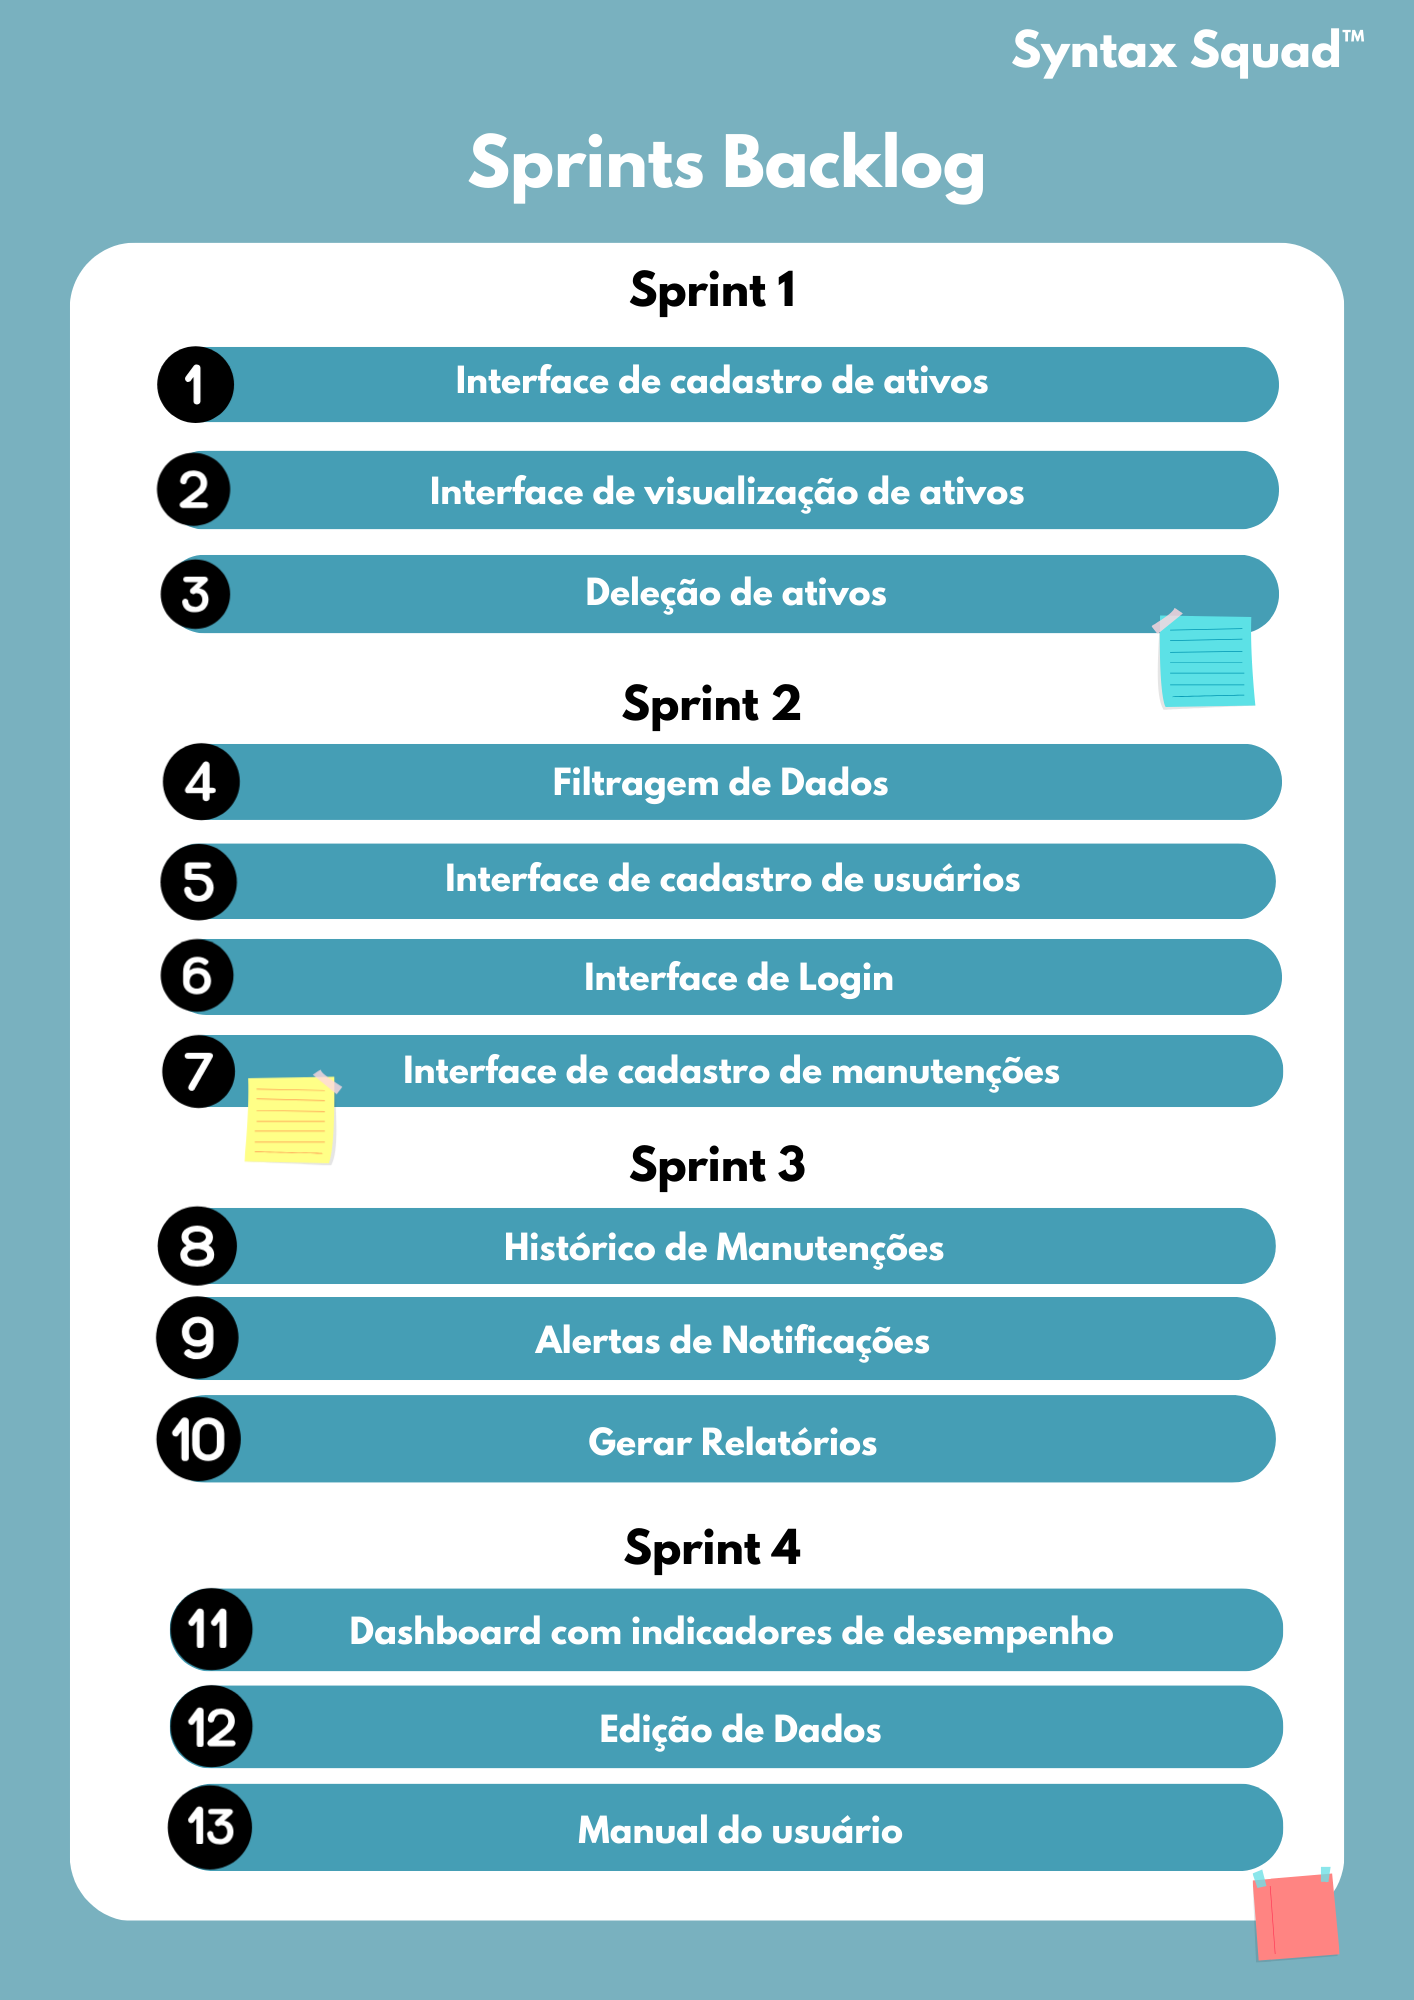
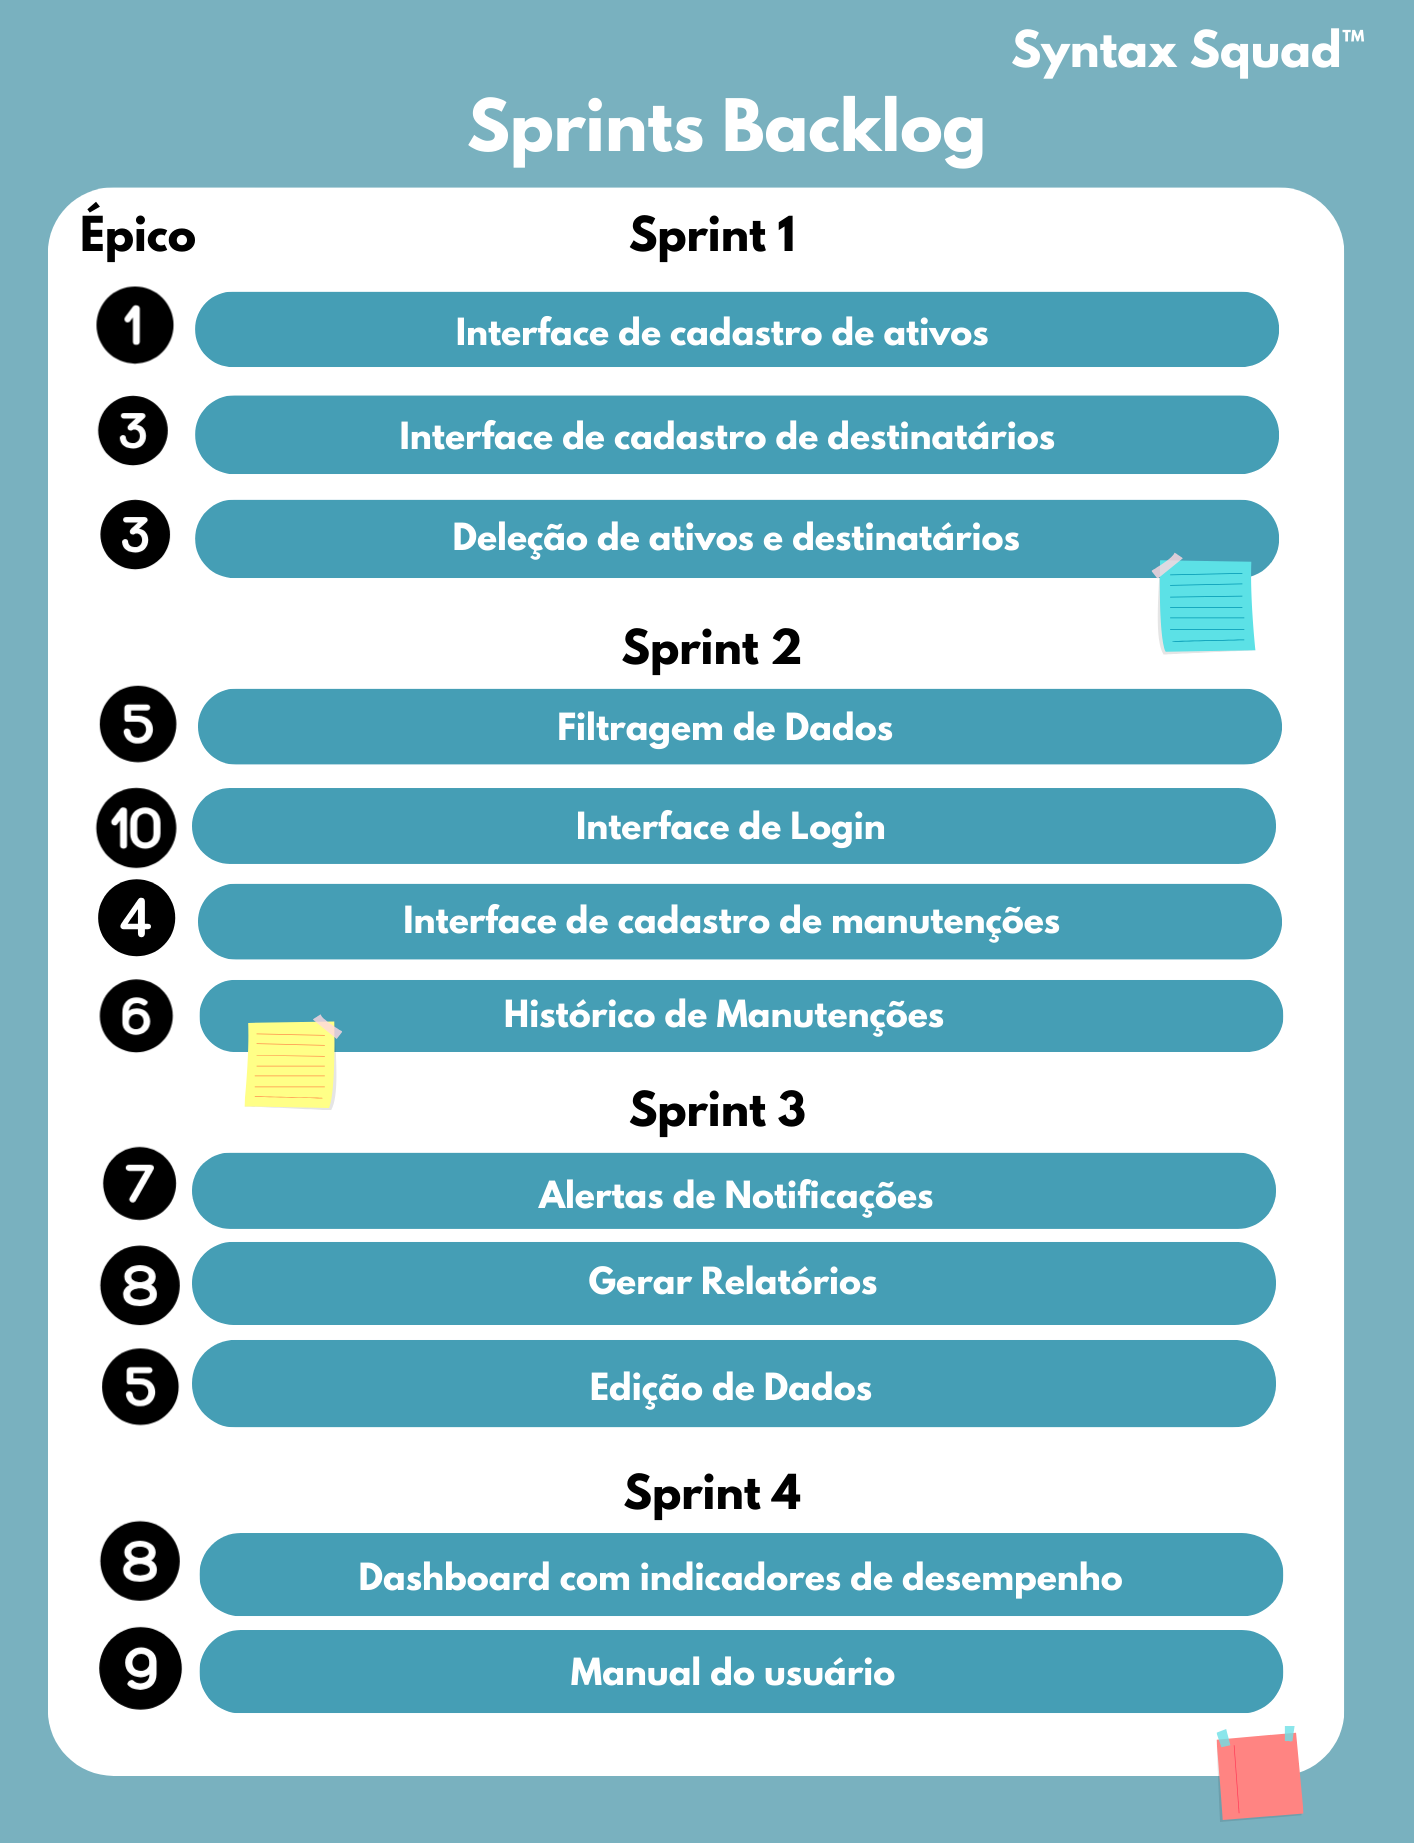
docs: atualizando Backlog das Sprints e ajustando README

diff --git a/README.md b/README.md
@@ -45,7 +45,6 @@ Dessa forma, com as Tarefas já traçadas, definimos a quantidade de tempo neces
 
 <h4 align="left">
  <a href="https://www.w3schools.com/js/" target="_blank"><img src="https://img.shields.io/badge/JavaScript-ffff00?style=for-the-badge&logo=JavaScript&logoColor=black" alt ='JavaScript'target="_blank"></a> <a href="https://vuejs.org/" target="_blank"><img src="https://img.shields.io/badge/React-blue?style=for-the-badge&logo=react&logoColor=white" alt='REACT' target="_blank"></a> <a href="https://www.mysql.com/" target="_blank"><img src="https://img.shields.io/badge/mysql-4479A1.svg?style=for-the-badge&logo=mysql&logoColor=white" alt='MySQL' target="_blank"></a> <a href="https://nodejs.org/pt-br" target="_blank"><img src="https://img.shields.io/badge/-Node-57a746?style=for-the-badge&logo=nodedotjs&logoColor=black" alt='NodeJS' target="_blank"></a> <a href="https://spring.io/" target="_blank"><img src="https://img.shields.io/badge/spring-%236DB33F.svg?style=for-the-badge&logo=spring&logoColor=white" alt='Spring' target="_blank"></a> <a href="https://html.com/html5/" target="_blank"><img src="https://img.shields.io/badge/-HTML-e44d25?style=for-the-badge&logo=HTML5&logoColor=white" alt='HTML5' target="_blank"></a> <a href="https://www.w3schools.com/css/" target="_blank"><img src="https://img.shields.io/badge/-CSS-264de4?style=for-the-badge&logo=CSS3&logoColor=white" alt='CSS3' target="_blank"></a> <a href="https://www.figma.com" target="_blank"><img src="https://img.shields.io/badge/-Figma-%23E4405F?style=for-the-badge&logo=Figma&logoColor=white" target="_blank"></a> <a href="https://code.visualstudio.com" target="_blank"><img src="https://img.shields.io/badge/-Visual Studio-%2384CE?style=for-the-badge&logo=Visual Studio Code&logoColor=white" target="_blank"></a> <a href="https://bulma.io/" target="_blank"><img src="https://img.shields.io/badge/bulma-00D0B1?style=for-the-badge&logo=bulma&logoColor=white" target="_blank"></a>
-  
 </h4>
 <br>
 
@@ -55,12 +54,6 @@ Dessa forma, com as Tarefas já traçadas, definimos a quantidade de tempo neces
 <p align="center">
 <img src= "/documents/img/mvp.png" width="600" alt="MVP AssetBox" >
 <br>
-  
-
-
-<br>
-
-<br>
 
 <span id="sprints">
 
@@ -68,18 +61,17 @@ Dessa forma, com as Tarefas já traçadas, definimos a quantidade de tempo neces
 
 ### Sprint - 1⃣ 🎯 ([Clique aqui](https://github.com/Grupo-Syntax-Squad/AssetBox/tree/sprint-1?tab=readme-ov-file))  Em andamento🚧
 
-### Sprint - 2⃣ 🎯 ([Clique aqui](/documents/sprints/sprint2))  Em andamento🚧
+### Sprint - 2⃣ 🎯  🚧
 
-### Sprint - 3⃣ 🎯 ([Clique aqui](/documents/sprints/sprint3))  Em andamento🚧
+### Sprint - 3⃣ 🎯  🚧
 
-### Sprint - 4⃣ 🎯 ([Clique aqui](/documents/sprints/sprint4))  Em andamento🚧
+### Sprint - 4⃣ 🎯  🚧
 
 <span id="backlogArtefatos">
   
 ## 🌲Backlog do Produto
 <p align="center">
 <img src= "/documents/img/Product_backlog.png" width="600" alt="Backlog Total">
- 
 <br>
 
 ## 👥User Stories
